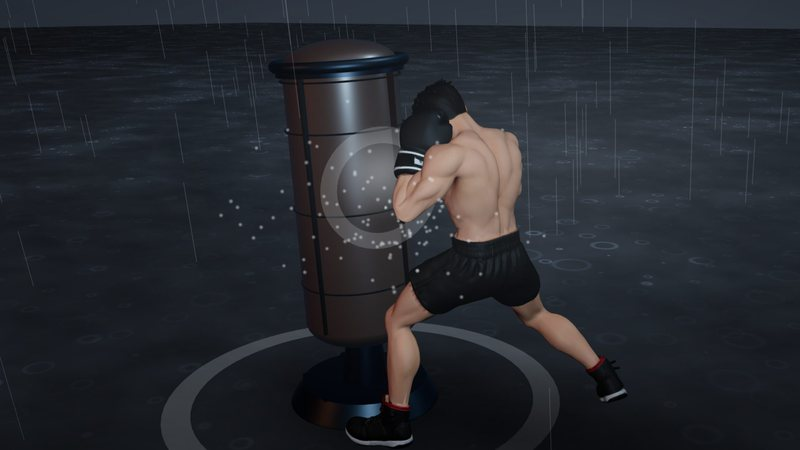
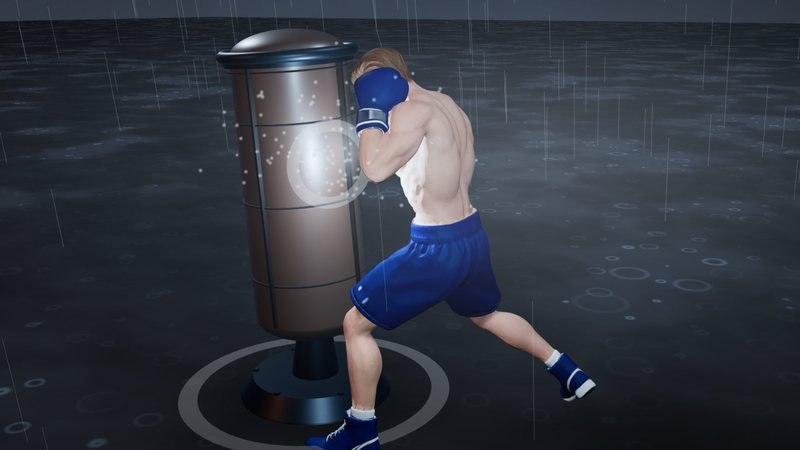
training: re-shoot the heavy bag card cover
The simulator fighter is now the European sculpt (sim-man.glb), so the
old cover still showed the previous character. Capture a fresh rear-hook
frame on the same scene (impact sparks + water ring) and bump the image
URL to ?v=2.

diff --git a/web/training/index.html b/web/training/index.html
@@ -146,7 +146,7 @@ window.PAGE = { section: 'training', depth: 1 };
     <div class="grid">
 
       <a class="card" href="./simulator/">
-        <span class="lab-thumb"><img src="../assets/img/training/simulator.jpg" alt="Heavy bag simulator: a rear hook landing on the bag as water bursts off the leather in the rain" width="800" height="450" loading="lazy" decoding="async"></span>
+        <span class="lab-thumb"><img src="../assets/img/training/simulator.jpg?v=2" alt="Heavy bag simulator: a rear hook landing on the bag as water bursts off the leather in the rain" width="800" height="450" loading="lazy" decoding="async"></span>
         <h3>Heavy Bag Simulator <span class="arrow">&rarr;</span></h3>
         <p>Boxing hands and kickboxing legs on the same bag: thirteen strikes — jab, cross, hooks, uppercuts, roundhouse and flying kicks, elbows and knees — thrown in a flooded yard while the sky tears open. The bag swings, water bursts off the leather, thunder answers every shot.</p>
         <div class="meta"><span class="tag">two sports · one bag</span><span>13 strikes · storm scene</span></div>
